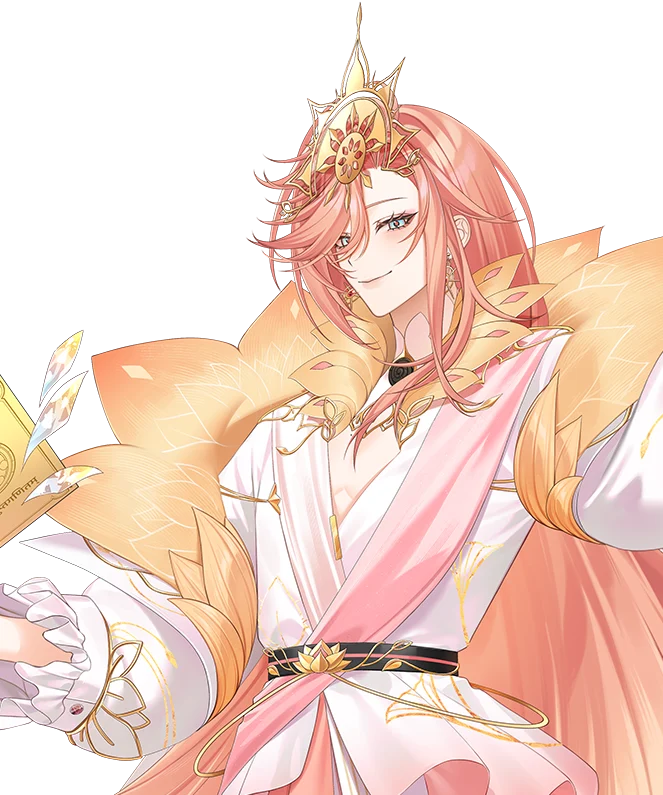
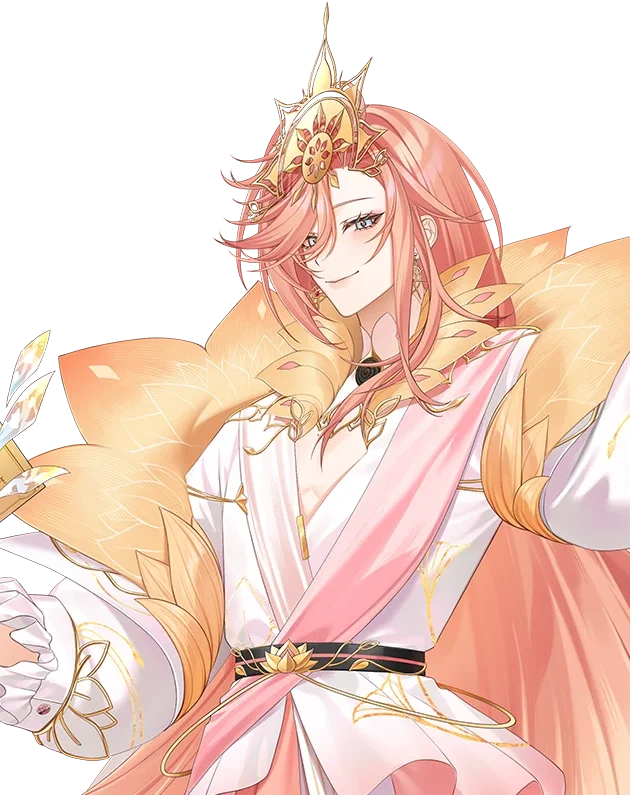
Recentre Augustine half-body
Claude-Session: https://claude.ai/code/session_0182ETGqkY6VZC2ACV9rE9Mb

diff --git a/index.html b/index.html
@@ -954,7 +954,7 @@ var TALENTS = [
   { id:'anya', halves:['talent-anya-half.webp?v=2','talent-anya-2-half.webp'], card:'talent-anya-half.webp?v=2', img:'talent-anya.webp?v=2', face:'talent-anya-face.webp?v=7', forms:['talent-anya.webp?v=2','talent-anya-2.webp'],  name:'Anya', short:'Anya', ini:'AY', type:'VTuber', aff:{name:'Polygon', logo:'logos/polygon-mark.png'}, langs:['th'], color:'#DCEFE3', tags:['#Singing','#FreeTalk','#Gaming','#HandCam'], works:['promo','review','collab','dub'], links:[['YouTube',19635,'https://www.youtube.com/@AnyaPLG'],['TikTok',8095,'https://www.tiktok.com/@anyaplg'],['Facebook',7139,'https://www.facebook.com/AnyaPolygon'],['X',4071,'https://x.com/AnyaPLG']], quote:['ลึกแต่ไม่ลับ คับแต่ไม่แคบ ไม่ใช่แค่ช้าง แต่เป็นแมมมอธ แฮ่ !','Deep but no secrets, packed but never cramped. Not just an elephant, a mammoth. Rawr!'] },
   { id:'monace', halves:['talent-monace-half.webp?v=2'], card:'talent-monace-half.webp?v=2', img:'talent-monace.webp', face:'talent-monace-face.webp?v=7',  name:'Monace', short:'Monace', ini:'MN', type:'VTuber', aff:{name:'Polygon', logo:'logos/polygon-mark.png'}, langs:['th','en'], color:'#D9E4F5', tags:['#Singing','#FreeTalk','#Gaming','#SongComposer'], works:['promo','review','cover','collab','dub'], links:[['YouTube',2608,'https://www.youtube.com/@MONACEPLG'],['TikTok',1735,'https://www.tiktok.com/@monaceplg'],['Facebook',558,'https://www.facebook.com/MONACEPLG'],['X',1477,'https://x.com/MONACEPLG']], quote:['แรปเปอร์ตัวตึงอาจจะดูเท่ แต่ใจดี พร้อมอยู่ข้างๆ ให้คุณรู้สึกสบายใจเสมอ โซโล โมเนซ ครับ 🪽','A rapper who may look tough but has a kind heart, always by your side to put you at ease. Solo Monace here 🪽'] },
   { id:'vinxiii', halves:['talent-vinxiii-half.webp?v=2'], card:'talent-vinxiii-half.webp?v=2', img:'talent-vinxiii.webp', face:'talent-vinxiii-face.webp?v=7',  name:'VinXIII', short:'VinXIII', ini:'VX', type:'VTuber', aff:{name:'Polygon', logo:'logos/polygon-mark.png'}, langs:['th'], color:'#F6E7C8', tags:['#Singing','#FreeTalk','#Gaming'], works:['promo','review','cover','collab'], links:[['YouTube',1715,'https://www.youtube.com/@VinXIIIPLG'],['TikTok',1187,'https://www.tiktok.com/@vinxiiiplg'],['Facebook',139,'https://www.facebook.com/VinXIIIPLG'],['X',2175,'https://x.com/VinXIIIPLG']], quote:['ถ้าตามหาคนที่จะทำให้หัวเราะได้ วินซี่ อยู่ตรงนี้เองครับ ที่ไม่ว่าอยู่ที่ไหนก็ทำให้บรรยากาศสดใสขึ้นทันที ⚜','Looking for someone to make you laugh? Vinzy is right here, brightening the room wherever he goes ⚜'] },
-  { id:'augustine', halves:['talent-augustine-half.webp'], card:'talent-augustine-half.webp', img:'talent-augustine.webp', face:'talent-augustine-face.webp?v=7',  name:'Augustine', short:'Augustine', ini:'AG', type:'VTuber', aff:{name:'Polygon', logo:'logos/polygon-mark.png'}, langs:['th','en'], color:'#E3F0FA', tags:['#Singing','#FreeTalk','#Gaming','#Dentist'], works:['promo','review','cover','collab'], links:[['YouTube',10500,'https://www.youtube.com/@AugustinePLG'],['TikTok',37200,'https://www.tiktok.com/@augustineplg'],['Facebook',770,'https://www.facebook.com/AugustinePLG'],['X',4178,'https://x.com/AugustinePLG']], quote:['ออกัสทีนเองครับ มีทั้งความสวย ความหล่อ และพลังบวกที่จะทำให้คุณยิ้มได้ทุกวัน อยากมาลองชิมมั้ยครับ','Augustine here: pretty, handsome and full of good vibes to make you smile every day. Care for a taste?'] },
+  { id:'augustine', halves:['talent-augustine-half.webp?v=2'], card:'talent-augustine-half.webp?v=2', img:'talent-augustine.webp', face:'talent-augustine-face.webp?v=7',  name:'Augustine', short:'Augustine', ini:'AG', type:'VTuber', aff:{name:'Polygon', logo:'logos/polygon-mark.png'}, langs:['th','en'], color:'#E3F0FA', tags:['#Singing','#FreeTalk','#Gaming','#Dentist'], works:['promo','review','cover','collab'], links:[['YouTube',10500,'https://www.youtube.com/@AugustinePLG'],['TikTok',37200,'https://www.tiktok.com/@augustineplg'],['Facebook',770,'https://www.facebook.com/AugustinePLG'],['X',4178,'https://x.com/AugustinePLG']], quote:['ออกัสทีนเองครับ มีทั้งความสวย ความหล่อ และพลังบวกที่จะทำให้คุณยิ้มได้ทุกวัน อยากมาลองชิมมั้ยครับ','Augustine here: pretty, handsome and full of good vibes to make you smile every day. Care for a taste?'] },
 ];
 var ART = [
   { label:['สติกเกอร์ LINE','LINE Sticker'], icon:'sticker', bg:'#FFF0C9', desc:['สติกเกอร์ไลน์ทั้งแบบนิ่งและแบบเคลื่อนไหว','Static and animated LINE stickers.'], kw:'สติกเกอร์ สติ๊กเกอร์ ไลน์ sticker' },
